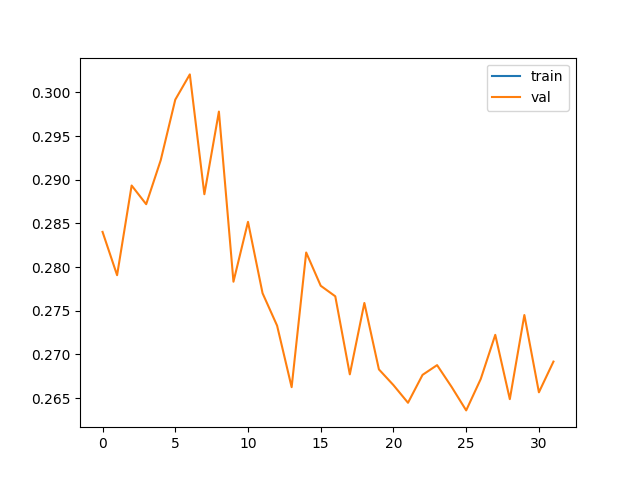
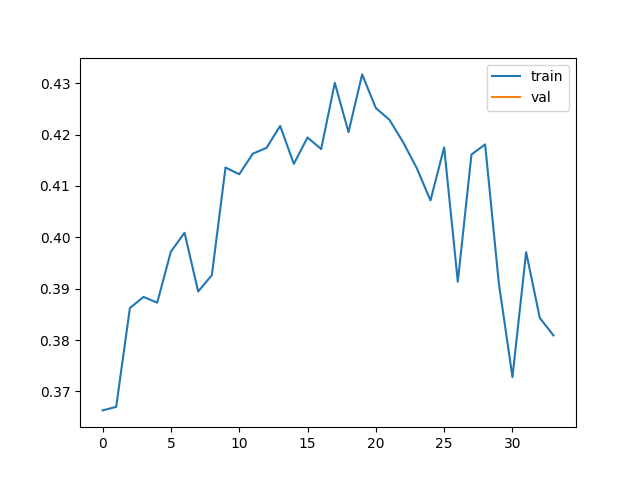
best

diff --git a/6_train.py b/6_train.py
@@ -394,21 +394,22 @@ def main():
         logging.info(f"Epoch: {epoch}, Average Reward: {avg_epoch_reward:.4f}, Average F1: {avg_epoch_f1_score:.4f}, Epsilon: {epsilon:.4f}")
         print(f"Average Reward: {avg_epoch_reward:.4f}, Average F1: {avg_epoch_f1_score:.4f}")
 
-        # TRAIN SET GREEDY
-        avg_train_reward, avg_train_f1_score = evaluate(
-            data, train_set, online_net, device, 
-            max_exp_loops
-        )
-        logging.info(f"GREEDY: Train Reward: {avg_train_reward:.4f}, Val F1: {avg_train_f1_score:.4f}")
-        print(f"GREEDY: Train - Reward: {avg_train_reward:.4f}, F1: {avg_train_f1_score:.4f}")
-        train_f1_scores.append(avg_train_f1_score)
-
         # Step the scheduler
         scheduler.step()
 
         # VALIDATION SET GREEDY
-        if epoch > 35:
+        if epoch > 20:
             online_net.eval()
+
+            # TRAIN SET GREEDY
+            avg_train_reward, avg_train_f1_score = evaluate(
+                data, train_set, online_net, device, 
+                max_exp_loops
+            )
+            logging.info(f"GREEDY: Train Reward: {avg_train_reward:.4f}, Val F1: {avg_train_f1_score:.4f}")
+            print(f"GREEDY: Train - Reward: {avg_train_reward:.4f}, F1: {avg_train_f1_score:.4f}")
+            train_f1_scores.append(avg_train_f1_score)
+
             # avg_val_reward, avg_val_f1_score = evaluate(
             #     data, validation_set, online_net, device, 
             #     max_exp_loops
